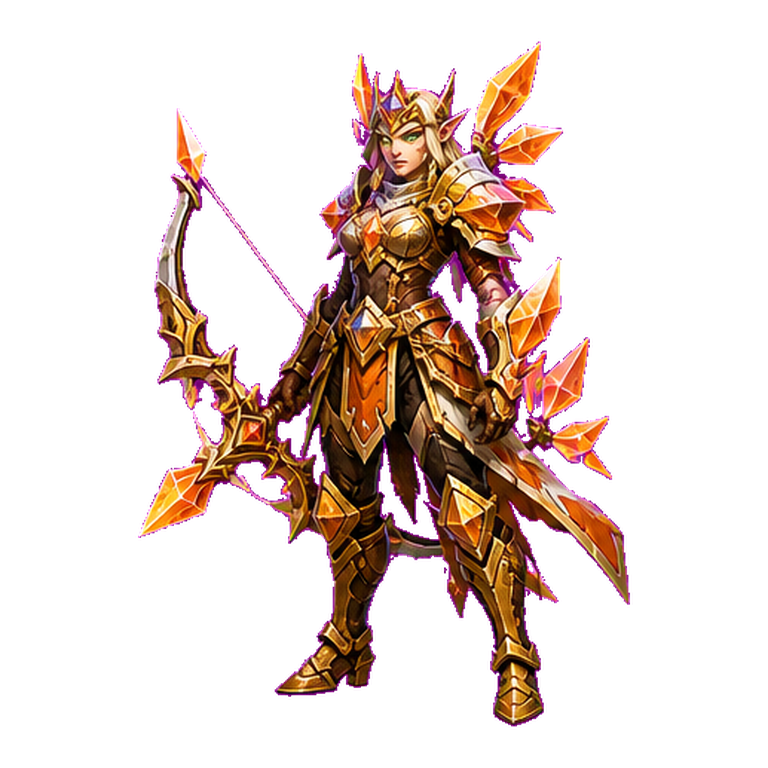
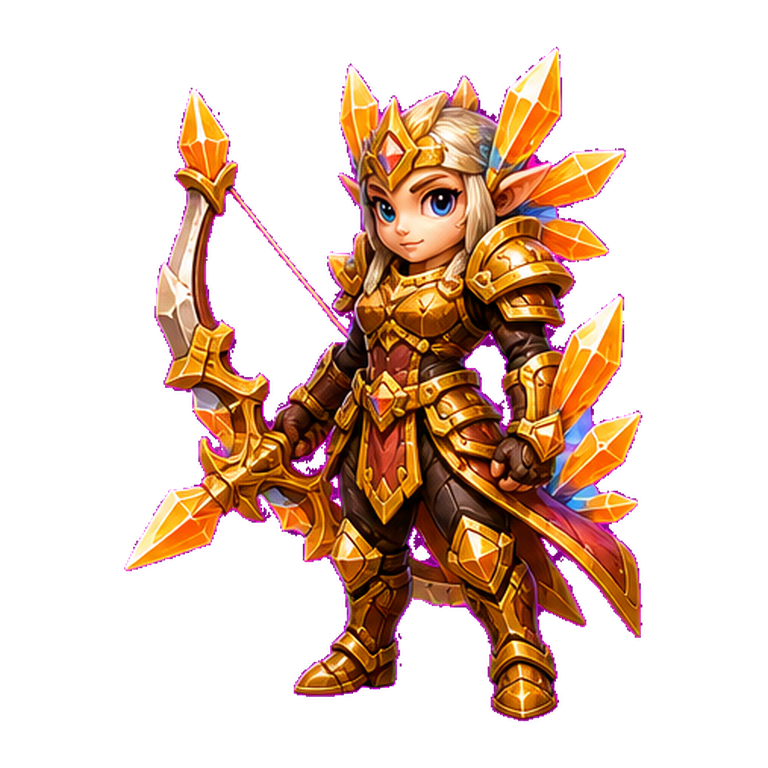
Use 3D chibi hero sprites

diff --git a/styles.css b/styles.css
@@ -2301,3 +2301,139 @@ body {
     right: -3%;
   }
 }
+
+/* 3D chibi hero pass */
+.hero-art {
+  background:
+    radial-gradient(circle at 50% 35%, color-mix(in srgb, var(--hero-color) 24%, transparent), transparent 44%),
+    radial-gradient(ellipse at 50% 82%, rgba(0,0,0,0.38), transparent 58%),
+    linear-gradient(180deg, rgba(255,255,255,0.06), transparent 42%),
+    linear-gradient(145deg, #1a211d, #0b0d0c 74%);
+}
+
+.hero-sprite {
+  filter:
+    drop-shadow(0 16px 10px rgba(0,0,0,0.48))
+    drop-shadow(0 0 10px color-mix(in srgb, var(--hero-color) 32%, transparent))
+    saturate(1.08)
+    contrast(1.03);
+}
+
+.hero-art .hero-sprite {
+  max-width: 96%;
+  max-height: 104%;
+}
+
+.inspector-art .hero-sprite {
+  max-width: 78%;
+  max-height: 98%;
+}
+
+.sprite-aura {
+  inset: 10% 13% 12%;
+  background:
+    radial-gradient(circle, color-mix(in srgb, var(--hero-color) 20%, transparent), transparent 62%);
+}
+
+.sprite-shadow {
+  bottom: 6%;
+  width: 62%;
+  height: 15%;
+  background: radial-gradient(ellipse, rgba(0,0,0,0.5), transparent 70%);
+}
+
+.sprite-base {
+  bottom: 7%;
+  width: 48%;
+  aspect-ratio: 2.05;
+  border-radius: 999px;
+  transform: translateX(-50%) rotateX(62deg);
+  background:
+    radial-gradient(ellipse at 50% 40%, rgba(255,255,255,0.14), transparent 52%),
+    linear-gradient(135deg, rgba(255,255,255,0.12), rgba(0,0,0,0.34)),
+    color-mix(in srgb, var(--stone) 78%, var(--hero-color));
+}
+
+.mini-portrait .hero-sprite,
+.hero-mini-sprite .hero-sprite {
+  width: 138%;
+  transform: translateY(13%);
+}
+
+.standing-avatar .hero-sprite {
+  width: 146%;
+  transform: translateY(13%);
+}
+
+.arena-board .fighter-portrait {
+  width: min(292px, 100%);
+}
+
+.fighter-portrait .hero-sprite {
+  width: 132%;
+  transform: translateY(5%);
+  filter:
+    drop-shadow(0 27px 14px rgba(0,0,0,0.66))
+    drop-shadow(0 0 12px color-mix(in srgb, var(--hero-color) 30%, transparent))
+    saturate(1.1)
+    contrast(1.04);
+}
+
+.fighter-right .fighter-portrait .hero-sprite {
+  transform: translateY(5%) scaleX(-1);
+}
+
+.fighter-portrait .sprite-base {
+  bottom: 3%;
+  width: 52%;
+}
+
+.fighter-portrait .sprite-aura {
+  inset: 4% 4% 7%;
+}
+
+.arena-board .fighter-left {
+  left: 4%;
+  bottom: 26px;
+}
+
+.arena-board .fighter-right {
+  right: 5%;
+  bottom: 100px;
+}
+
+@media (max-width: 760px) {
+  .arena-board .fighter {
+    width: 50%;
+    max-width: 208px;
+  }
+
+  .arena-board .fighter-left {
+    left: 1%;
+    bottom: 42px;
+  }
+
+  .arena-board .fighter-right {
+    right: 3%;
+    bottom: 152px;
+    transform: scale(0.9);
+  }
+
+  .arena-board .fighter-portrait {
+    width: min(210px, 100%);
+  }
+
+  .fighter-portrait .hero-sprite {
+    width: 125%;
+  }
+}
+
+@media (max-width: 430px) {
+  .arena-board .fighter-left {
+    left: -2%;
+  }
+
+  .arena-board .fighter-right {
+    right: -1%;
+  }
+}
